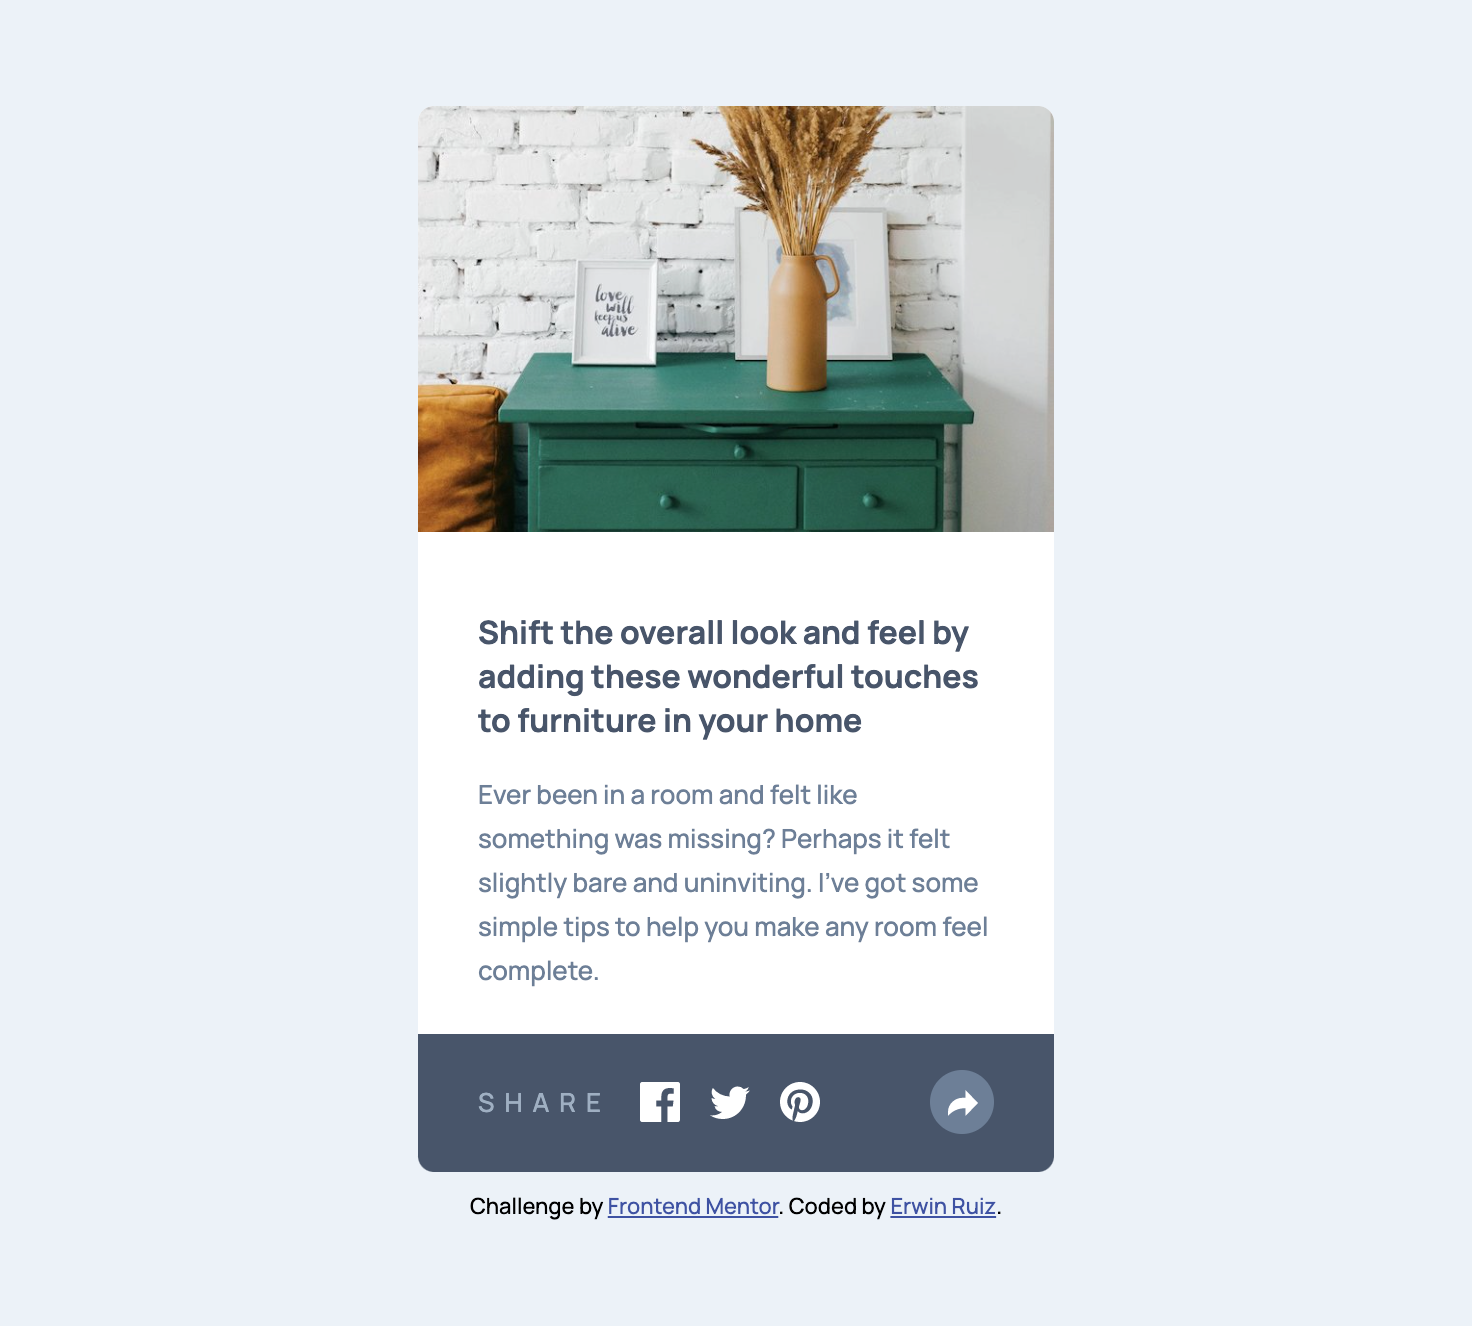
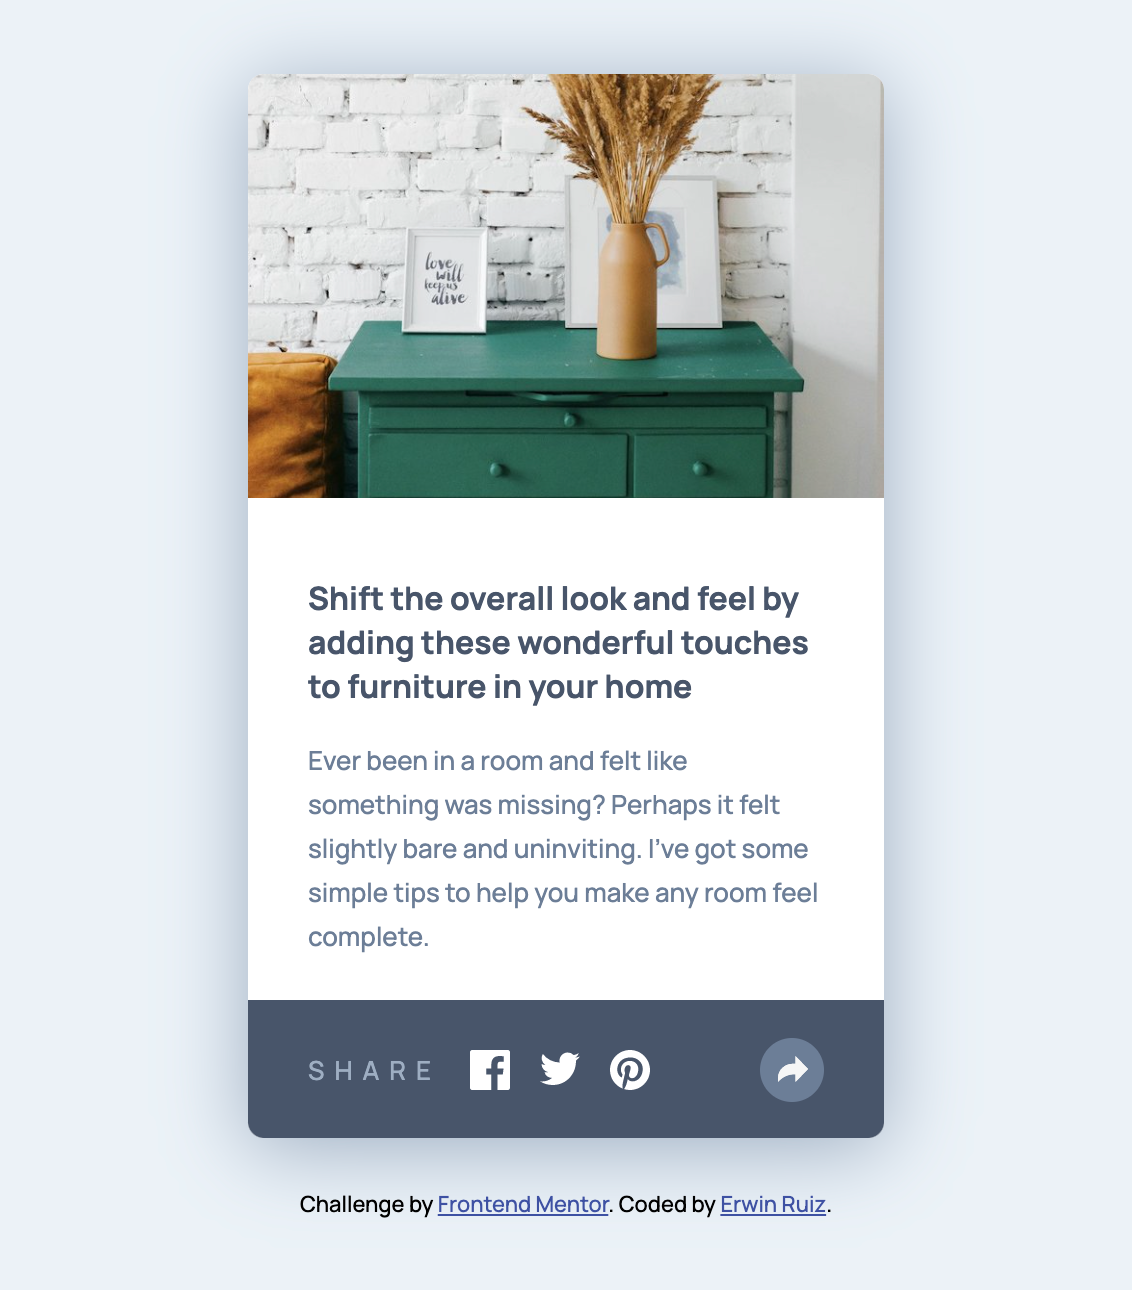
Add box shadow to section and modal

Changed region(s): [[0.1855, 0.031, 0.8039, 0.9612], [0.2783, 0.5891, 0.7111, 0.7442], [0.2783, 0.4341, 0.7111, 0.5581]]

diff --git a/styles.css b/styles.css
@@ -26,7 +26,8 @@ section {
   height: 532px;
   background-color: white;
   border-radius: 8px;
-  margin-bottom: 10px;
+  margin-bottom: 25px;
+  box-shadow: 0px 5px 40px var(--grayishBlue);
 }
 section .hero {
   height: 212.8px;
@@ -176,7 +177,7 @@ section .modal img:hover {
     border-radius: 8px;
     margin-left: 279px;
     margin-top: -40px;
-    z-index: 1;
+    box-shadow: 0px 5px 40px var(--grayishBlue);
   }
   section .modal .modal-share-icon {
     display: none;
@@ -190,9 +191,9 @@ section .modal img:hover {
     background-color: var(--veryDarkGrayishBlue);
     position: absolute;
     margin-left: 375px;
-    margin-top: -15px;
-    transform: rotate(45deg);
+    transform: rotate(180deg);
     display: none;
+    clip-path: polygon(50% 50%, 0% 100%, 100% 100%);
   }
   section .active-arrow {
     display: initial;
